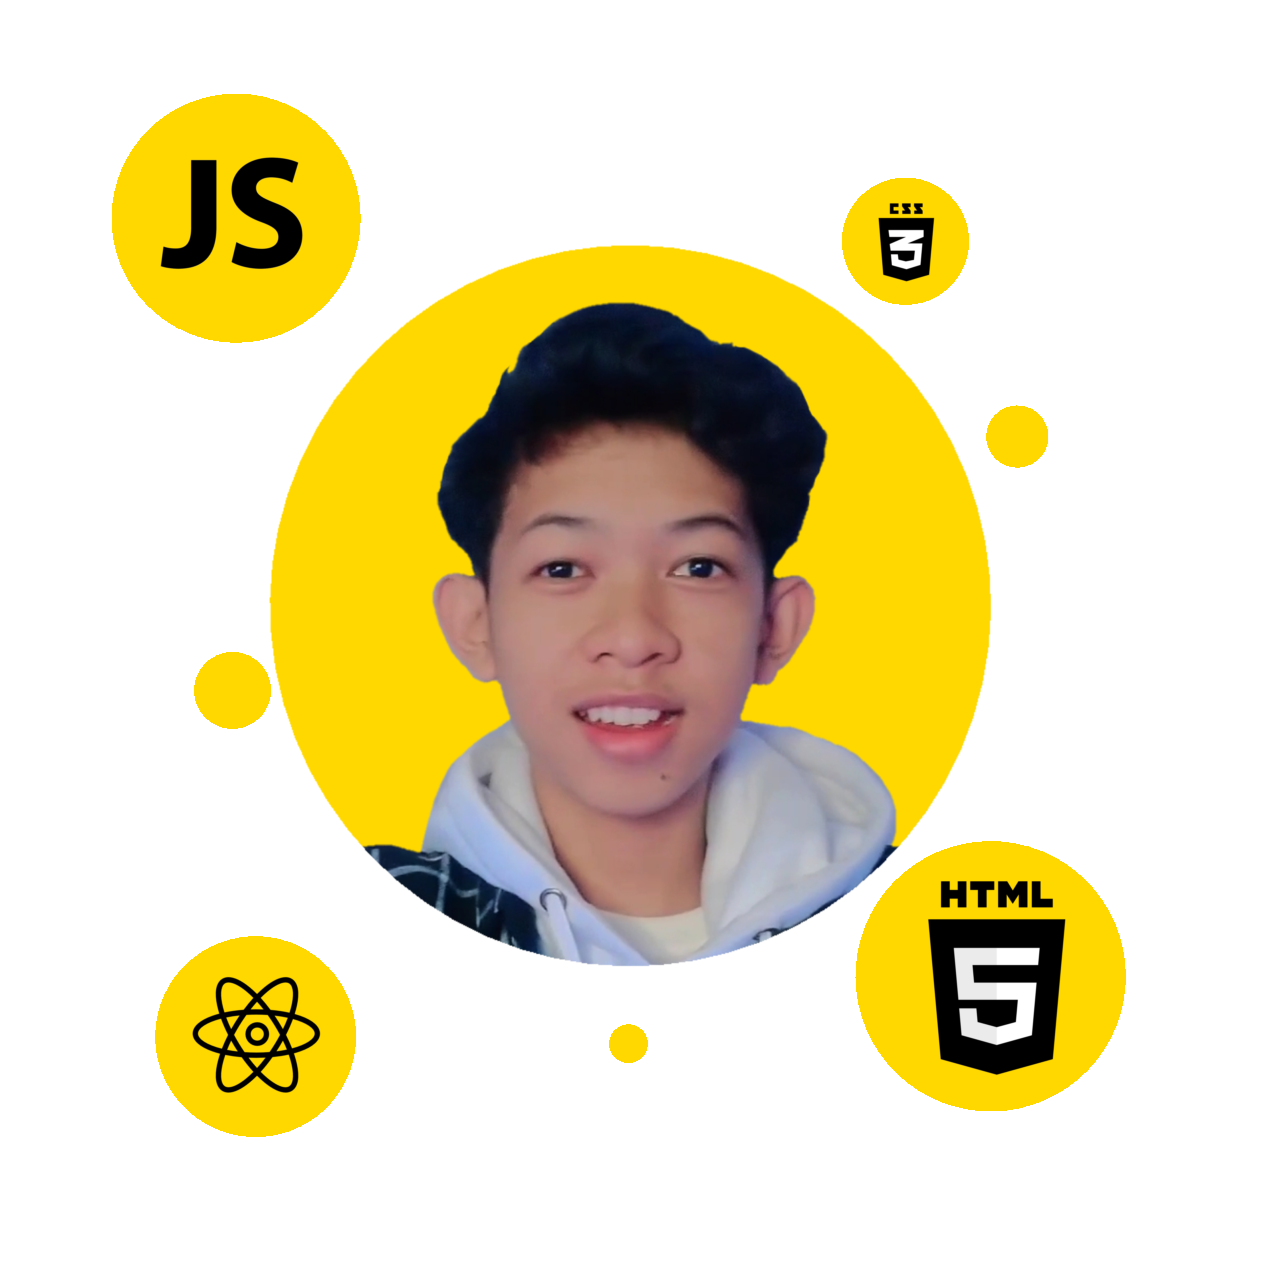
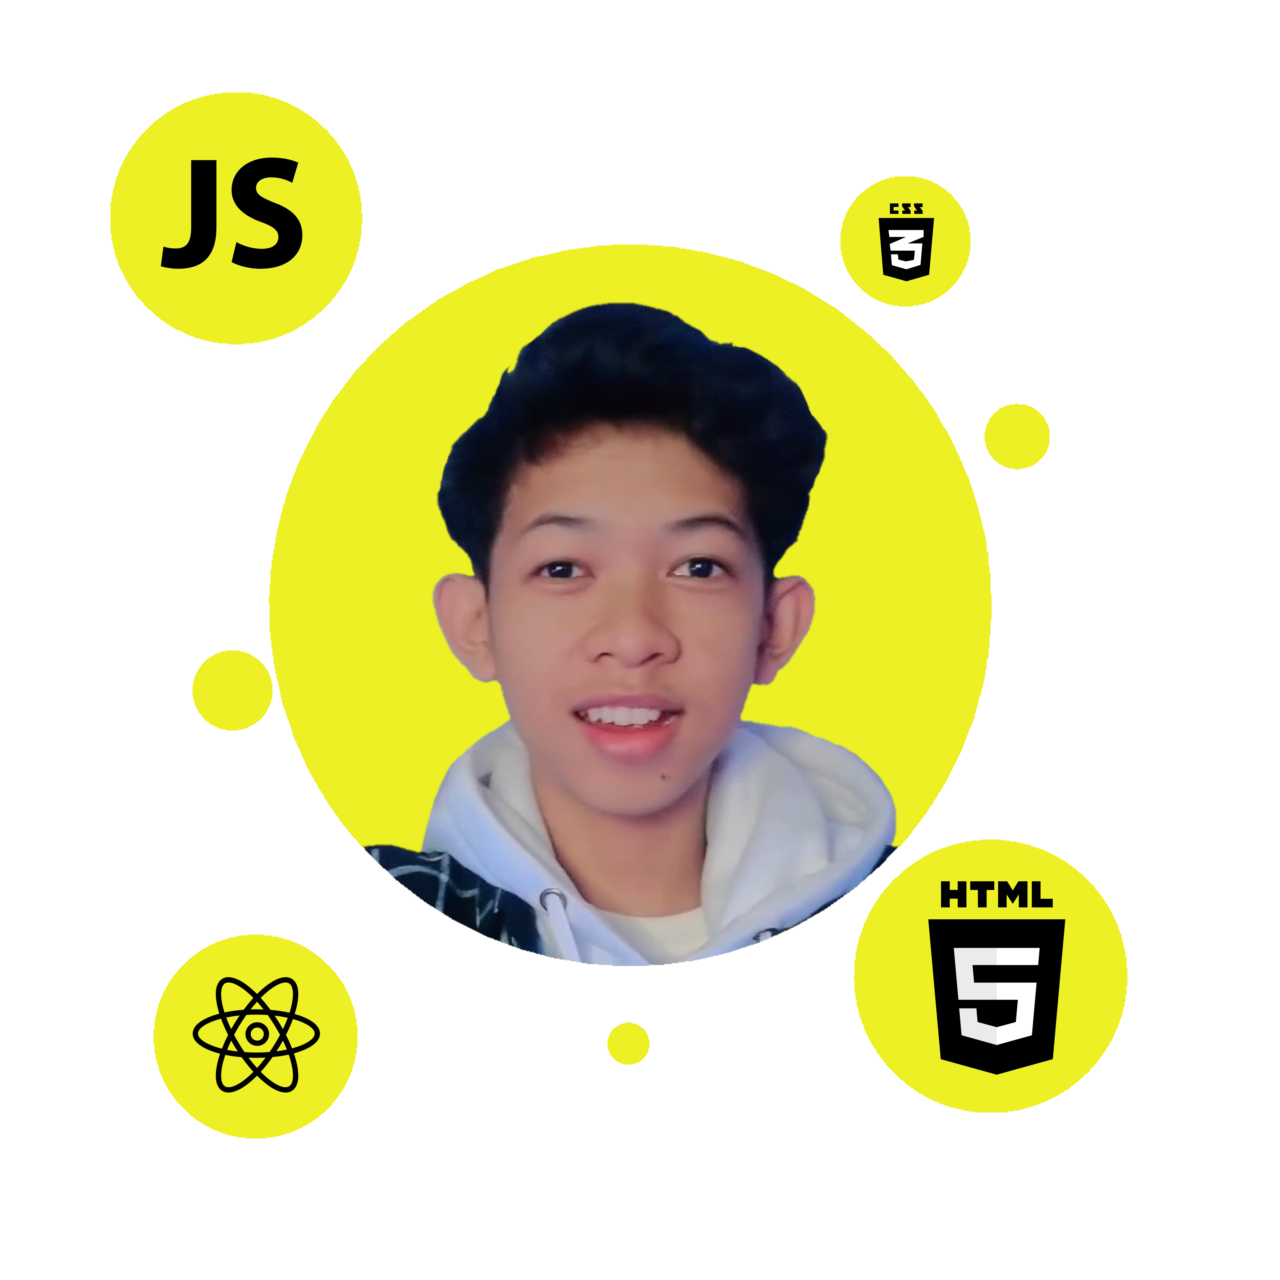
mengubah warna pp

diff --git a/src/Style/About.css b/src/Style/About.css
@@ -17,6 +17,7 @@
   justify-content: center;
   align-items: center;
   flex-basis: 50%;
+  position: relative;
 }
 
 .aBox h1 {
@@ -66,6 +67,21 @@
   border: none;
   border-radius: 2px;
   box-shadow: rgba(175, 178, 26, 0.85) 2px 4px 1px;
+}
+
+.floating__wrapper {
+  position: absolute;
+  padding: 10px;
+  background-color: rgb(236, 240, 36);
+  border-radius: 5px;
+  color: #202020;
+  box-shadow: #202020 0 0 10px;
+}
+.floating__wrapper > h1 {
+  font-size: 18px;
+}
+.floating__wrapper > p {
+  font-size: 12px;
 }
 
 .diKlik {
@@ -249,9 +265,9 @@
   content: '  ';
   position: absolute;
   width: 15%;
-  height: 10.5%;
+  height: 12.5%;
   left: 73%;
-  top: -1.85%;
+  top: -2.85%;
   border-left: 2px solid rgb(236, 240, 36);
 }
 /**Create Cross Lines */

diff --git a/src/Pages/About.js b/src/Pages/About.js
@@ -52,6 +52,14 @@ const About = () => {
           </div>
           <div className="aBox">
             <img src={Profile2} className="fprofile" alt="foto profile" />
+            <div style={{ transform: 'translateY(-70px) translateX(-170px)' }} className="floating__wrapper">
+              <h1>Web Developer</h1>
+              <p>1+ Years Experience</p>
+            </div>
+            <div style={{ transform: 'translateY(70px) translateX(170px)' }} className="floating__wrapper">
+              <h1>Design Graphics</h1>
+              <p>2+ Years Experience</p>
+            </div>
           </div>
         </div>
 
